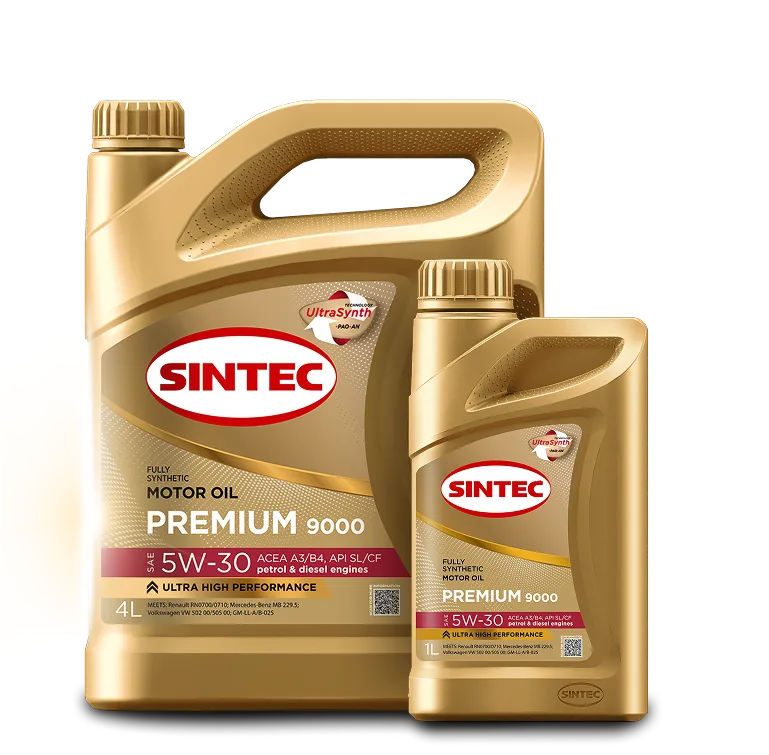
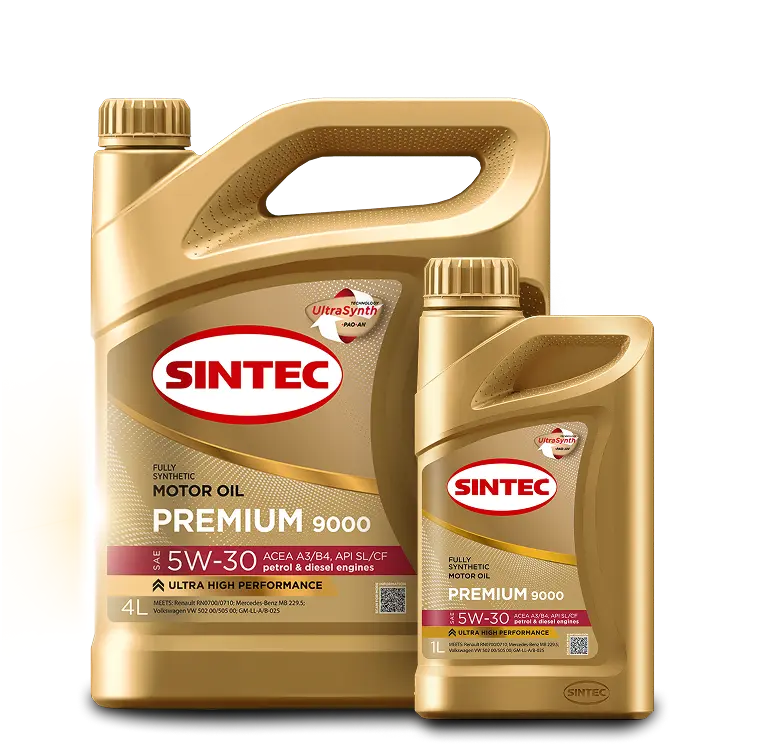
hero

diff --git a/src/scss/home.scss b/src/scss/home.scss
@@ -385,7 +385,7 @@
     left: 17%;
     bottom: mixins.toRem(66);
 
-    @include mixins.adaptiveValue("width", 357, 213, 1920, 768);
+    @include mixins.adaptiveValue("width", 386, 213, 1920, 768);
     @include mixins.adaptiveValue("height", 367, 238, 1920, 768);
 
     img {
